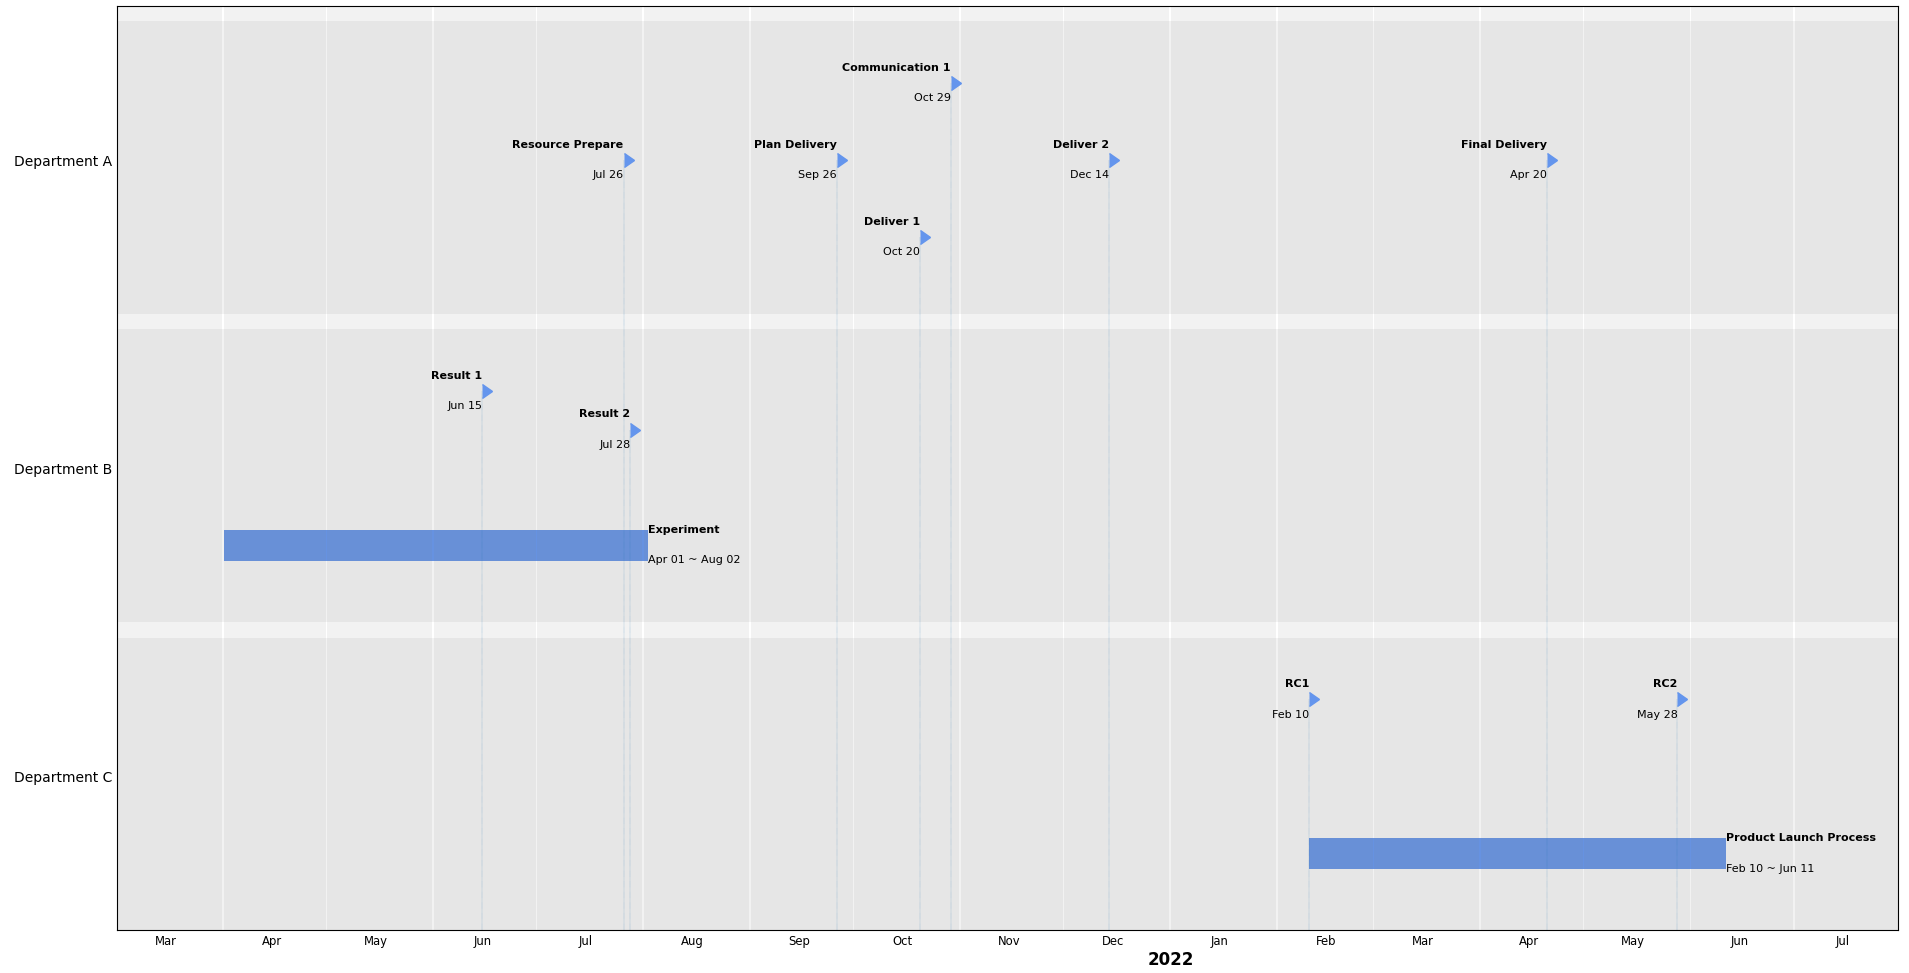
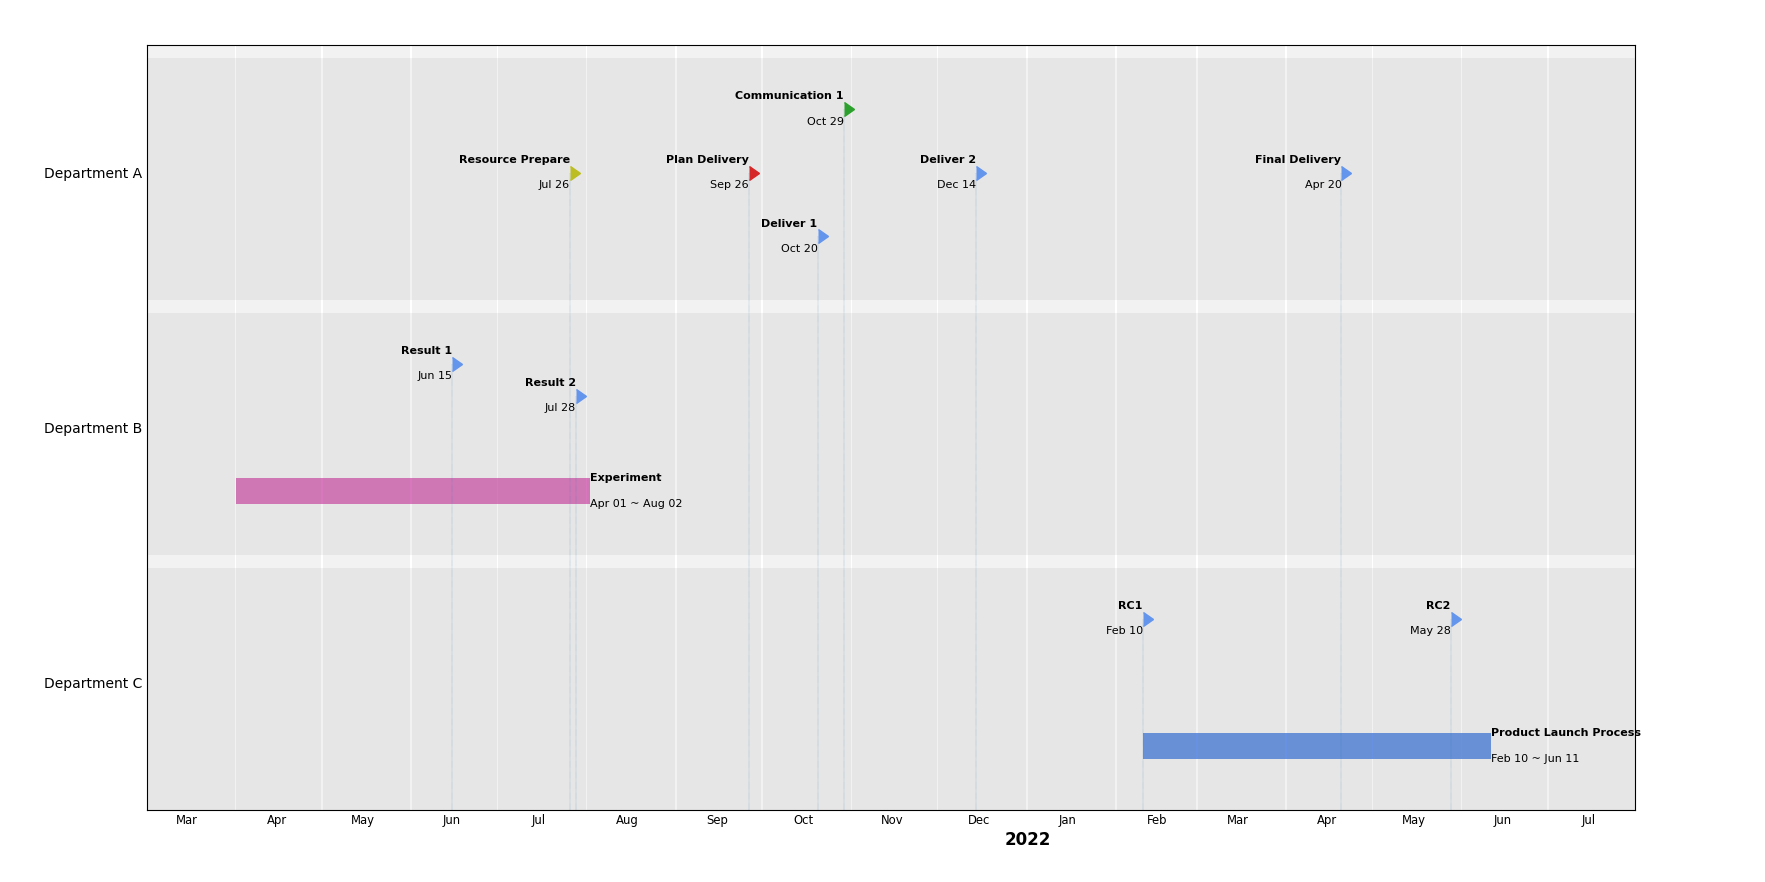
Added Color Support

diff --git a/matplotlib_timeline.py b/matplotlib_timeline.py
@@ -13,22 +13,22 @@ from matplotlib import dates
 ####################################################
 dataset = {
         'Department A' : [
-            ['Plan Delivery', '2021-9-26'],
-            ['Communication 1', '2021-10-29'],
-            ['Resource Prepare', '2021-7-26'],
-            ['Deliver 1', '2021-10-20'],
-            ['Deliver 2', '2021-12-14'],
-            ['Final Delivery', '2022-4-20'],
+            [['Plan Delivery', '2021-9-26'], 'r'],
+            [['Communication 1', '2021-10-29'], 'g'],
+            [['Resource Prepare', '2021-7-26'], 'y'],
+            [['Deliver 1', '2021-10-20']],
+            [['Deliver 2', '2021-12-14']],
+            [['Final Delivery', '2022-4-20']],
         ],
         'Department B' : [
-            ['Experiment', '2021-4-1', '2021-8-2'],
-            ['Result 1', '2021-6-15'],
-            ['Result 2', '2021-7-28']
+            [['Experiment', '2021-4-1', '2021-8-2'], 'p'],
+            [['Result 1', '2021-6-15']],
+            [['Result 2', '2021-7-28']]
         ],
         'Department C' : [
-            ['Product Launch Process', '2022-2-10', '2022-6-11'],
-            ['RC1', '2022-2-10'],
-            ['RC2', '2022-5-28']
+            [['Product Launch Process', '2022-2-10', '2022-6-11']],
+            [['RC1', '2022-2-10']],
+            [['RC2', '2022-5-28']]
         ]
 }
 
@@ -40,6 +40,8 @@ categoryHeight = 20
 ProperDateInterval = 45
 
 refDate = "2021-1-1"
+
+defaultColor = 'cornflowerblue'
 
 def pairwise(iterable):
     """
@@ -139,13 +141,18 @@ def add_mileStone(plt, milestone, yPos, color):
 def findStartEnd(dataset):
     """
     """
-    key = list(dataset.keys())[0]
-    projStart = datetime.strptime(dataset[key][0][1], "%Y-%m-%d")
-    projEnd = datetime.strptime(dataset[key][0][len(dataset[key][0])-1], "%Y-%m-%d")
+    keylist = list(dataset.keys())  # categories
+    key = keylist[0]
+    ele = dataset[key][0][0]
+    eleLen = len(ele)
+    projStart = datetime.strptime(ele[1], "%Y-%m-%d")
+    projEnd = datetime.strptime(ele[eleLen-1], "%Y-%m-%d")
     for key in dataset.keys():
         for item in dataset[key]:
-            curStart = datetime.strptime(item[1], "%Y-%m-%d")
-            curEnd = datetime.strptime(item[len(item)-1], "%Y-%m-%d")
+            ele = item[0]
+            eleLen = len(ele)
+            curStart = datetime.strptime(ele[1], "%Y-%m-%d")
+            curEnd = datetime.strptime(ele[eleLen-1], "%Y-%m-%d")
             if curStart < projStart:
                 projStart = curStart
             if curEnd > projEnd:
@@ -160,15 +167,26 @@ def findStartEnd(dataset):
 ########
 # add item, either milestone or task
 ########
+def color_translation(x):
+    return {
+        'r' : 'tab:red',
+        'g' : 'tab:green',
+        'b' : 'tab:blue',
+        'y' : 'tab:olive',
+        'p' : 'tab:pink'
+    }.get(x, 'tab:blue')
+
 def add_item(plt, ax, item, yPos):
     """
     """
-    if (len(item) == 2):
+    if (len(item[0]) == 2):
         # milestone
-        add_mileStone(plt, item, yPos, "cornflowerblue")
-    elif (len(item) == 3):
+        color = defaultColor if len(item) == 1 else color_translation(item[1])
+        add_mileStone(plt, item[0], yPos, color)
+    elif (len(item[0]) == 3):
+        color = defaultColor if len(item) == 1 else color_translation(item[1])
         # task
-        add_task(ax, item, yPos, 2, "cornflowerblue")
+        add_task(ax, item[0], yPos, 2, color)
 #######
 # drawList
 #######
@@ -180,7 +198,7 @@ def drawList(plt, ax, itemList, baseline, height):
     prevAlt2 = datetime.strptime(refDate, "%Y-%m-%d")
     alt2Y = baseline + height * 3 / 4
     for item in itemList:
-        currentDate = datetime.strptime(item[1], "%Y-%m-%d")
+        currentDate = datetime.strptime(item[0][1], "%Y-%m-%d")
         if (currentDate - prevBase).days > ProperDateInterval:
             # Base
             add_item(plt, ax, item, baseY)
@@ -204,18 +222,18 @@ def drawDatalist(plt, ax, datalist, baseline, height):
     """
     tempDict = {}
     for item in datalist:
-        tempDict.setdefault(len(item), []).append(item)
+        tempDict.setdefault(len(item[0]), []).append(item)
     keys = tempDict.keys()
     if (len(keys) == 1):
         # only one group
         key = list(keys)[0]
-        itemList = sorted(tempDict[key], key=lambda x:datetime.strptime(x[1], "%Y-%m-%d"))
+        itemList = sorted(tempDict[key], key=lambda x:datetime.strptime(x[0][1], "%Y-%m-%d"))
         drawList(plt, ax, itemList, baseline, height)
     else:
         # both interval and milestone
-        tasklist = sorted(tempDict[3], key=lambda x:datetime.strptime(x[1], "%Y-%m-%d"))
+        tasklist = sorted(tempDict[3], key=lambda x:datetime.strptime(x[0][1], "%Y-%m-%d"))
         drawList(plt, ax, tasklist, baseline, height/2)
-        milestoneList = sorted(tempDict[2], key=lambda x:datetime.strptime(x[1], "%Y-%m-%d"))
+        milestoneList = sorted(tempDict[2], key=lambda x:datetime.strptime(x[0][1], "%Y-%m-%d"))
         drawList(plt, ax, milestoneList, baseline + height/2, height/2)
     return
 

diff --git a/README.md b/README.md
@@ -9,24 +9,34 @@ Using the dataset as the example below:
 
     dataset = {
             'Department A' : [
-                ['Plan Delivery', '2021-9-26'],
-                ['Communication 1', '2021-10-29'],
-                ['Resource Prepare', '2021-7-26'],
-                ['Deliver 1', '2021-10-20'],
-                ['Deliver 2', '2021-12-14'],
-                ['Final Delivery', '2022-4-20'],
+                [['Plan Delivery', '2021-9-26'], 'r'],
+                [['Communication 1', '2021-10-29'], 'g'],
+                [['Resource Prepare', '2021-7-26'], 'y'],
+                [['Deliver 1', '2021-10-20']],
+                [['Deliver 2', '2021-12-14']],
+                [['Final Delivery', '2022-4-20']],
             ],
             'Department B' : [
-                ['Experiment', '2021-4-1', '2021-8-2'],
-                ['Result 1', '2021-6-15'],
-                ['Result 2', '2021-7-28']
+                [['Experiment', '2021-4-1', '2021-8-2'], 'p'],
+                [['Result 1', '2021-6-15']],
+                [['Result 2', '2021-7-28']]
             ],
             'Department C' : [
-                ['Product Launch Process', '2022-2-10', '2022-6-11'],
-                ['RC1', '2022-2-10'],
-                ['RC2', '2022-5-28']
+                [['Product Launch Process', '2022-2-10', '2022-6-11']],
+                [['RC1', '2022-2-10']],
+                [['RC2', '2022-5-28']]
             ]
     }
+
+## About the colors
+The default item color is set by `defaultColor`. For each milestone or task, you can specify its color separately
+| color specifier | Actual Color  |
+| ----------------|-------------- |
+|       'r'       | 'tab:red'     |
+|       'g'       | 'tab:green'   |
+|       'b'       | 'tab:blue'    |
+|       'y'       | 'tab:olive'   |
+|       'p'       | 'tab:pink'    |
 
 The generated timeline will be dipicted as below:
 ![Example Timeline](doc/Sample.png)
